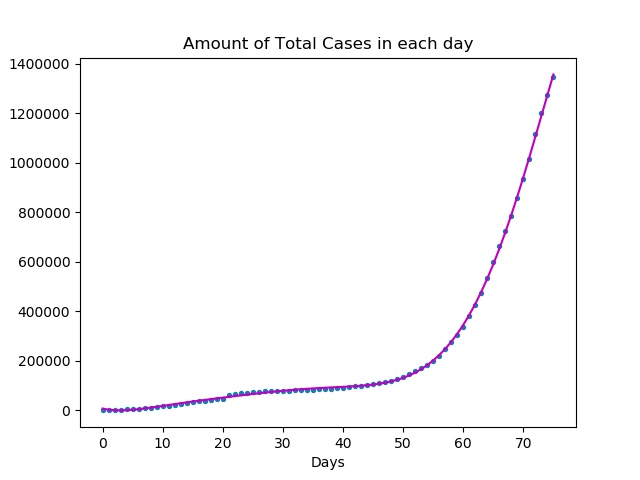
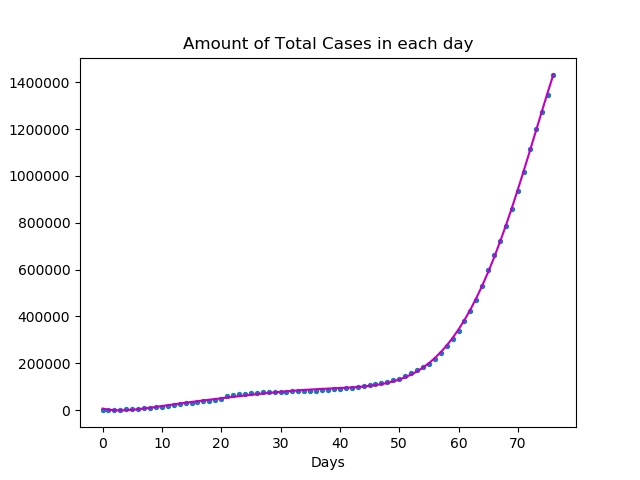
update 08/04/2020

diff --git a/README.md b/README.md
@@ -12,17 +12,17 @@ COVID-19, the disease that can result from the coronavirus worldwide new pandemi
 
 
 
-Our predictions for 07/04/2020: 
+Our predictions for 08/04/2020: 
 
-The predictions for Total Cases today is: 1436957
+The predictions for Total Cases today is: 1508842
 
-The predictions for Total Active Cases today is: 1070156
+The predictions for Total Active Cases today is: 1117933
 
-The predictions for Total Cured Cases today is: 306797
+The predictions for Total Cured Cases today is: 327318
 
-The predictions for Total Deaths  today is: 83266
+The predictions for Total Deaths  today is: 89935
 
-The predictions for Total Critical Cases  today is: 51629
+The predictions for Total Critical Cases  today is: 52462
 
 
 
@@ -33,7 +33,8 @@ The predictions for Total Critical Cases  today is: 51629
 
 |    Date    | Predicted Total Cases | Real Total Cases | Predicted Total Recovered | Real Total Recovered | Predicted  Total Deaths | Real Total Deaths | Predicted Active Cases | Real Active Cases | Predicted  Critical Cases | Real Critical Cases |
 | :--------: | :-------------------: | :--------------: | :-----------------------: | :------------------: | :---------------------: | :---------------: | :--------------------: | :---------------: | :-----------------------: | :-----------------: |
-| 7/04/2020  |        1436957        |        ??        |          306797           |          ??          |          83266          |        ??         |        1070156         |        ??         |           51629           |         ??          |
+| 08/04/2020 |        1508842        |        ??        |          327318           |          ??          |          89935          |        ??         |        1117933         |        ??         |           52462           |         ??          |
+| 07/04/2020 |        1436957        |     1430981      |          306797           |        302017        |          83266          |       82036       |        1070156         |      1046928      |           51629           |        47891        |
 | 06/04/2020 |        1391952        |     1346036      |          291636           |        278534        |          78417          |       74654       |        1018577         |      992848?      |           49610           |        47459        |
 | 05/04/2020 |        1309861        |     1272901      |          272048           |        264604        |          72118          |       69427       |         962878         |      938870       |           47064           |        45589        |
 | 04/04/2020 |        1215813        |     1201483      |          252278           |        246467        |          65527          |       64691       |         895783         |      890325       |           44888           |        42288        |
